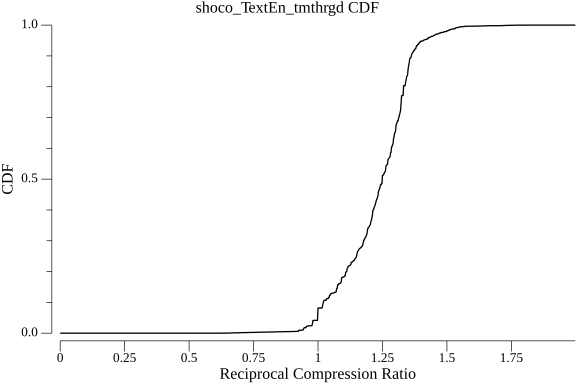
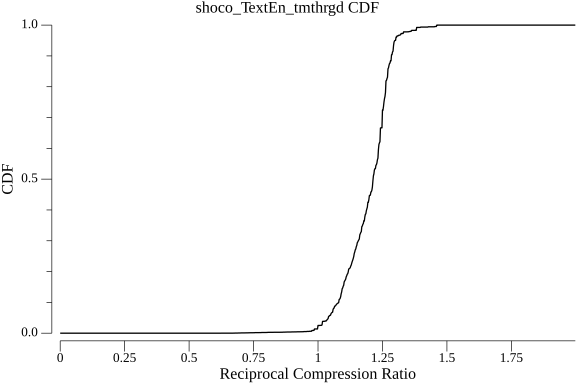
remove proposed from shoco theses are just superior

Changed region(s): [[0.625, 0.125, 0.7188, 0.625], [0.4062, 0.625, 0.625, 0.875], [0.6875, 0.0625, 0.9062, 0.125]]

diff --git a/main.go b/main.go
@@ -187,51 +187,27 @@ func main() {
 		"smaz_cespare":         smaz.Compress,
 		"smaz_cespare_Jorropo": compressorOnlyTextMessageAppContent(smaz.Compress),
 		"shoco_WordsEn_tmthrgd": func(data []byte) []byte {
-			return shoco_models.WordsEn().Compress(data)
-		},
-		"shoco_WordsEn_tmthrgd_Jorropo": compressorOnlyTextMessageAppContent(func(data []byte) []byte {
-			return shoco_models.WordsEn().Compress(data)
-		}),
-		"shoco_WordsEn_proposed_tmthrgd": func(data []byte) []byte {
 			return shoco_models.WordsEn().ProposedCompress(data)
 		},
-		"shoco_WordsEn_proposed_tmthrgd_Jorropo": compressorOnlyTextMessageAppContent(func(data []byte) []byte {
+		"shoco_WordsEn_tmthrgd_Jorropo": compressorOnlyTextMessageAppContent(func(data []byte) []byte {
 			return shoco_models.WordsEn().ProposedCompress(data)
 		}),
 		"shoco_TextEn_tmthrgd": func(data []byte) []byte {
-			return shoco_models.TextEn().Compress(data)
-		},
-		"shoco_TextEn_tmthrgd_Jorropo": compressorOnlyTextMessageAppContent(func(data []byte) []byte {
-			return shoco_models.TextEn().Compress(data)
-		}),
-		"shoco_TextEn_proposed_tmthrgd": func(data []byte) []byte {
 			return shoco_models.TextEn().ProposedCompress(data)
 		},
-		"shoco_TextEn_proposed_tmthrgd_Jorropo": compressorOnlyTextMessageAppContent(func(data []byte) []byte {
+		"shoco_TextEn_tmthrgd_Jorropo": compressorOnlyTextMessageAppContent(func(data []byte) []byte {
 			return shoco_models.TextEn().ProposedCompress(data)
 		}),
 		"shoco_FilePath_tmthrgd": func(data []byte) []byte {
-			return shoco_models.FilePath().Compress(data)
-		},
-		"shoco_FilePath_tmthrgd_Jorropo": compressorOnlyTextMessageAppContent(func(data []byte) []byte {
-			return shoco_models.FilePath().Compress(data)
-		}),
-		"shoco_FilePath_proposed_tmthrgd": func(data []byte) []byte {
 			return shoco_models.FilePath().ProposedCompress(data)
 		},
-		"shoco_FilePath_proposed_tmthrgd_Jorropo": compressorOnlyTextMessageAppContent(func(data []byte) []byte {
+		"shoco_FilePath_tmthrgd_Jorropo": compressorOnlyTextMessageAppContent(func(data []byte) []byte {
 			return shoco_models.FilePath().ProposedCompress(data)
 		}),
 		"shoco_Emails_tmthrgd": func(data []byte) []byte {
-			return shoco_models.Emails().Compress(data)
-		},
-		"shoco_Emails_tmthrgd_Jorropo": compressorOnlyTextMessageAppContent(func(data []byte) []byte {
-			return shoco_models.Emails().Compress(data)
-		}),
-		"shoco_Emails_proposed_tmthrgd": func(data []byte) []byte {
 			return shoco_models.Emails().ProposedCompress(data)
 		},
-		"shoco_Emails_proposed_tmthrgd_Jorropo": compressorOnlyTextMessageAppContent(func(data []byte) []byte {
+		"shoco_Emails_tmthrgd_Jorropo": compressorOnlyTextMessageAppContent(func(data []byte) []byte {
 			return shoco_models.Emails().ProposedCompress(data)
 		}),
 	}
@@ -254,11 +230,11 @@ func main() {
 						count++
 					}
 					if useShoco_WordsEn == 1 {
-						name += "_shoco_WordsEn_proposed"
+						name += "_shoco_WordsEn"
 						count++
 					}
 					if useShoco_TextEn == 1 {
-						name += "_shoco_TextEn_proposed"
+						name += "_shoco_TextEn"
 						count++
 					}
 					if count <= 1 {

diff --git a/README.md b/README.md
@@ -9,36 +9,28 @@ One **bellow** 1 means the compressed data is **smaller** than the uncompressed 
 
 | Compressor | Average Reciprocal Compression Ratio (TEXT_MESSAGE_APP only) | Average Reciprocal Compression Ratio |
 |------------|--------------------------------------------------------------|--------------------------------------|
-| `sscc_Jorropo_unishox2_smaz_shoco_WordsEn_proposed_shoco_TextEn_proposed` | 0.7382 | 0.9982 |
-| `sscc_Jorropo_unishox2_smaz_shoco_TextEn_proposed` | 0.7386 | 0.9982 |
-| `sscc_Jorropo_unishox2_shoco_WordsEn_proposed_shoco_TextEn_proposed` | 0.7426 | 0.9983 |
-| `sscc_Jorropo_unishox2_shoco_TextEn_proposed` | 0.7431 | 0.9983 |
-| `sscc_Jorropo_unishox2_smaz_shoco_WordsEn_proposed` | 0.7460 | 0.9983 |
+| `sscc_Jorropo_unishox2_smaz_shoco_WordsEn_shoco_TextEn` | 0.7382 | 0.9982 |
+| `sscc_Jorropo_unishox2_smaz_shoco_TextEn` | 0.7386 | 0.9982 |
+| `sscc_Jorropo_unishox2_shoco_WordsEn_shoco_TextEn` | 0.7426 | 0.9983 |
+| `sscc_Jorropo_unishox2_shoco_TextEn` | 0.7431 | 0.9983 |
+| `sscc_Jorropo_unishox2_smaz_shoco_WordsEn` | 0.7460 | 0.9983 |
 | `sscc_Jorropo_unishox2_smaz` | 0.7485 | 0.9983 |
-| `sscc_Jorropo_unishox2_shoco_WordsEn_proposed` | 0.7542 | 0.9983 |
+| `sscc_Jorropo_unishox2_shoco_WordsEn` | 0.7542 | 0.9983 |
 | `unishox2_meshtastic` | 0.7578 | 0.9983 |
-| `sscc_Jorropo_smaz_shoco_WordsEn_proposed_shoco_TextEn_proposed` | 0.7604 | 0.9987 |
-| `sscc_Jorropo_smaz_shoco_TextEn_proposed` | 0.7613 | 0.9987 |
-| `sscc_Jorropo_shoco_WordsEn_proposed_shoco_TextEn_proposed` | 0.7709 | 0.9988 |
-| `shoco_TextEn_proposed_tmthrgd_Jorropo` | 0.7722 | 0.9988 |
-| `sscc_Jorropo_smaz_shoco_WordsEn_proposed` | 0.7816 | 0.9989 |
-| `shoco_TextEn_tmthrgd_Jorropo` | 0.7825 | 0.9988 |
+| `sscc_Jorropo_smaz_shoco_WordsEn_shoco_TextEn` | 0.7604 | 0.9987 |
+| `sscc_Jorropo_smaz_shoco_TextEn` | 0.7613 | 0.9987 |
+| `sscc_Jorropo_shoco_WordsEn_shoco_TextEn` | 0.7709 | 0.9988 |
+| `shoco_TextEn_tmthrgd_Jorropo` | 0.7722 | 0.9988 |
+| `sscc_Jorropo_smaz_shoco_WordsEn` | 0.7816 | 0.9989 |
 | `smaz_cespare_Jorropo` | 0.7965 | 0.9990 |
-| `shoco_WordsEn_proposed_tmthrgd_Jorropo` | 0.8388 | 0.9991 |
-| `shoco_TextEn_tmthrgd` | 0.8466 | 1.2200 |
-| `shoco_WordsEn_tmthrgd_Jorropo` | 0.8482 | 0.9992 |
-| `shoco_TextEn_proposed_tmthrgd` | 0.8575 | 1.1715 |
-| `shoco_FilePath_proposed_tmthrgd_Jorropo` | 0.8661 | 0.9993 |
-| `shoco_FilePath_tmthrgd_Jorropo` | 0.8747 | 0.9994 |
-| `shoco_Emails_proposed_tmthrgd_Jorropo` | 0.8755 | 0.9994 |
-| `shoco_Emails_tmthrgd_Jorropo` | 0.8838 | 0.9994 |
+| `shoco_WordsEn_tmthrgd_Jorropo` | 0.8388 | 0.9991 |
+| `shoco_TextEn_tmthrgd` | 0.8575 | 1.1715 |
+| `shoco_FilePath_tmthrgd_Jorropo` | 0.8661 | 0.9993 |
+| `shoco_Emails_tmthrgd_Jorropo` | 0.8755 | 0.9994 |
 | `smaz_cespare` | 0.8865 | 1.2514 |
-| `shoco_WordsEn_tmthrgd` | 0.9133 | 1.2220 |
-| `shoco_WordsEn_proposed_tmthrgd` | 0.9241 | 1.1736 |
-| `shoco_FilePath_tmthrgd` | 0.9407 | 1.2243 |
-| `shoco_Emails_tmthrgd` | 0.9500 | 1.2240 |
-| `shoco_FilePath_proposed_tmthrgd` | 0.9516 | 1.1758 |
-| `shoco_Emails_proposed_tmthrgd` | 0.9608 | 1.1755 |
+| `shoco_WordsEn_tmthrgd` | 0.9241 | 1.1736 |
+| `shoco_FilePath_tmthrgd` | 0.9516 | 1.1758 |
+| `shoco_Emails_tmthrgd` | 0.9608 | 1.1755 |
 | `noop` | 1.0000 | 1.0000 |
 | `lz4_cloudflareHC` | 1.0429 | 1.0325 |
 | `lz4_cloudflare` | 1.0434 | 1.0330 |
@@ -58,35 +50,35 @@ One **bellow** 1 means the compressed data is **smaller** than the uncompressed 
 
 The following graphs show the cumulative distribution function (CDF) of the reciprocal compression ratios for each compressor.
 
-### `sscc_Jorropo_unishox2_smaz_shoco_WordsEn_proposed_shoco_TextEn_proposed`
+### `sscc_Jorropo_unishox2_smaz_shoco_WordsEn_shoco_TextEn`
 
-![sscc_Jorropo_unishox2_smaz_shoco_WordsEn_proposed_shoco_TextEn_proposed CDF](graphs/sscc_Jorropo_unishox2_smaz_shoco_WordsEn_proposed_shoco_TextEn_proposed_cdf.png)
+![sscc_Jorropo_unishox2_smaz_shoco_WordsEn_shoco_TextEn CDF](graphs/sscc_Jorropo_unishox2_smaz_shoco_WordsEn_shoco_TextEn_cdf.png)
 
-![sscc_Jorropo_unishox2_smaz_shoco_WordsEn_proposed_shoco_TextEn_proposed only TEXT_MESSAGE_APP CDF](graphs/sscc_Jorropo_unishox2_smaz_shoco_WordsEn_proposed_shoco_TextEn_proposed_only_TEXT_MESSAGE_APP_cdf.png)
+![sscc_Jorropo_unishox2_smaz_shoco_WordsEn_shoco_TextEn only TEXT_MESSAGE_APP CDF](graphs/sscc_Jorropo_unishox2_smaz_shoco_WordsEn_shoco_TextEn_only_TEXT_MESSAGE_APP_cdf.png)
 
-### `sscc_Jorropo_unishox2_smaz_shoco_TextEn_proposed`
+### `sscc_Jorropo_unishox2_smaz_shoco_TextEn`
 
-![sscc_Jorropo_unishox2_smaz_shoco_TextEn_proposed CDF](graphs/sscc_Jorropo_unishox2_smaz_shoco_TextEn_proposed_cdf.png)
+![sscc_Jorropo_unishox2_smaz_shoco_TextEn CDF](graphs/sscc_Jorropo_unishox2_smaz_shoco_TextEn_cdf.png)
 
-![sscc_Jorropo_unishox2_smaz_shoco_TextEn_proposed only TEXT_MESSAGE_APP CDF](graphs/sscc_Jorropo_unishox2_smaz_shoco_TextEn_proposed_only_TEXT_MESSAGE_APP_cdf.png)
+![sscc_Jorropo_unishox2_smaz_shoco_TextEn only TEXT_MESSAGE_APP CDF](graphs/sscc_Jorropo_unishox2_smaz_shoco_TextEn_only_TEXT_MESSAGE_APP_cdf.png)
 
-### `sscc_Jorropo_unishox2_shoco_WordsEn_proposed_shoco_TextEn_proposed`
+### `sscc_Jorropo_unishox2_shoco_WordsEn_shoco_TextEn`
 
-![sscc_Jorropo_unishox2_shoco_WordsEn_proposed_shoco_TextEn_proposed CDF](graphs/sscc_Jorropo_unishox2_shoco_WordsEn_proposed_shoco_TextEn_proposed_cdf.png)
+![sscc_Jorropo_unishox2_shoco_WordsEn_shoco_TextEn CDF](graphs/sscc_Jorropo_unishox2_shoco_WordsEn_shoco_TextEn_cdf.png)
 
-![sscc_Jorropo_unishox2_shoco_WordsEn_proposed_shoco_TextEn_proposed only TEXT_MESSAGE_APP CDF](graphs/sscc_Jorropo_unishox2_shoco_WordsEn_proposed_shoco_TextEn_proposed_only_TEXT_MESSAGE_APP_cdf.png)
+![sscc_Jorropo_unishox2_shoco_WordsEn_shoco_TextEn only TEXT_MESSAGE_APP CDF](graphs/sscc_Jorropo_unishox2_shoco_WordsEn_shoco_TextEn_only_TEXT_MESSAGE_APP_cdf.png)
 
-### `sscc_Jorropo_unishox2_shoco_TextEn_proposed`
+### `sscc_Jorropo_unishox2_shoco_TextEn`
 
-![sscc_Jorropo_unishox2_shoco_TextEn_proposed CDF](graphs/sscc_Jorropo_unishox2_shoco_TextEn_proposed_cdf.png)
+![sscc_Jorropo_unishox2_shoco_TextEn CDF](graphs/sscc_Jorropo_unishox2_shoco_TextEn_cdf.png)
 
-![sscc_Jorropo_unishox2_shoco_TextEn_proposed only TEXT_MESSAGE_APP CDF](graphs/sscc_Jorropo_unishox2_shoco_TextEn_proposed_only_TEXT_MESSAGE_APP_cdf.png)
+![sscc_Jorropo_unishox2_shoco_TextEn only TEXT_MESSAGE_APP CDF](graphs/sscc_Jorropo_unishox2_shoco_TextEn_only_TEXT_MESSAGE_APP_cdf.png)
 
-### `sscc_Jorropo_unishox2_smaz_shoco_WordsEn_proposed`
+### `sscc_Jorropo_unishox2_smaz_shoco_WordsEn`
 
-![sscc_Jorropo_unishox2_smaz_shoco_WordsEn_proposed CDF](graphs/sscc_Jorropo_unishox2_smaz_shoco_WordsEn_proposed_cdf.png)
+![sscc_Jorropo_unishox2_smaz_shoco_WordsEn CDF](graphs/sscc_Jorropo_unishox2_smaz_shoco_WordsEn_cdf.png)
 
-![sscc_Jorropo_unishox2_smaz_shoco_WordsEn_proposed only TEXT_MESSAGE_APP CDF](graphs/sscc_Jorropo_unishox2_smaz_shoco_WordsEn_proposed_only_TEXT_MESSAGE_APP_cdf.png)
+![sscc_Jorropo_unishox2_smaz_shoco_WordsEn only TEXT_MESSAGE_APP CDF](graphs/sscc_Jorropo_unishox2_smaz_shoco_WordsEn_only_TEXT_MESSAGE_APP_cdf.png)
 
 ### `sscc_Jorropo_unishox2_smaz`
 
@@ -94,11 +86,11 @@ The following graphs show the cumulative distribution function (CDF) of the reci
 
 ![sscc_Jorropo_unishox2_smaz only TEXT_MESSAGE_APP CDF](graphs/sscc_Jorropo_unishox2_smaz_only_TEXT_MESSAGE_APP_cdf.png)
 
-### `sscc_Jorropo_unishox2_shoco_WordsEn_proposed`
+### `sscc_Jorropo_unishox2_shoco_WordsEn`
 
-![sscc_Jorropo_unishox2_shoco_WordsEn_proposed CDF](graphs/sscc_Jorropo_unishox2_shoco_WordsEn_proposed_cdf.png)
+![sscc_Jorropo_unishox2_shoco_WordsEn CDF](graphs/sscc_Jorropo_unishox2_shoco_WordsEn_cdf.png)
 
-![sscc_Jorropo_unishox2_shoco_WordsEn_proposed only TEXT_MESSAGE_APP CDF](graphs/sscc_Jorropo_unishox2_shoco_WordsEn_proposed_only_TEXT_MESSAGE_APP_cdf.png)
+![sscc_Jorropo_unishox2_shoco_WordsEn only TEXT_MESSAGE_APP CDF](graphs/sscc_Jorropo_unishox2_shoco_WordsEn_only_TEXT_MESSAGE_APP_cdf.png)
 
 ### `unishox2_meshtastic`
 
@@ -106,35 +98,23 @@ The following graphs show the cumulative distribution function (CDF) of the reci
 
 ![unishox2_meshtastic only TEXT_MESSAGE_APP CDF](graphs/unishox2_meshtastic_only_TEXT_MESSAGE_APP_cdf.png)
 
-### `sscc_Jorropo_smaz_shoco_WordsEn_proposed_shoco_TextEn_proposed`
+### `sscc_Jorropo_smaz_shoco_WordsEn_shoco_TextEn`
 
-![sscc_Jorropo_smaz_shoco_WordsEn_proposed_shoco_TextEn_proposed CDF](graphs/sscc_Jorropo_smaz_shoco_WordsEn_proposed_shoco_TextEn_proposed_cdf.png)
+![sscc_Jorropo_smaz_shoco_WordsEn_shoco_TextEn CDF](graphs/sscc_Jorropo_smaz_shoco_WordsEn_shoco_TextEn_cdf.png)
 
-![sscc_Jorropo_smaz_shoco_WordsEn_proposed_shoco_TextEn_proposed only TEXT_MESSAGE_APP CDF](graphs/sscc_Jorropo_smaz_shoco_WordsEn_proposed_shoco_TextEn_proposed_only_TEXT_MESSAGE_APP_cdf.png)
+![sscc_Jorropo_smaz_shoco_WordsEn_shoco_TextEn only TEXT_MESSAGE_APP CDF](graphs/sscc_Jorropo_smaz_shoco_WordsEn_shoco_TextEn_only_TEXT_MESSAGE_APP_cdf.png)
 
-### `sscc_Jorropo_smaz_shoco_TextEn_proposed`
+### `sscc_Jorropo_smaz_shoco_TextEn`
 
-![sscc_Jorropo_smaz_shoco_TextEn_proposed CDF](graphs/sscc_Jorropo_smaz_shoco_TextEn_proposed_cdf.png)
+![sscc_Jorropo_smaz_shoco_TextEn CDF](graphs/sscc_Jorropo_smaz_shoco_TextEn_cdf.png)
 
-![sscc_Jorropo_smaz_shoco_TextEn_proposed only TEXT_MESSAGE_APP CDF](graphs/sscc_Jorropo_smaz_shoco_TextEn_proposed_only_TEXT_MESSAGE_APP_cdf.png)
+![sscc_Jorropo_smaz_shoco_TextEn only TEXT_MESSAGE_APP CDF](graphs/sscc_Jorropo_smaz_shoco_TextEn_only_TEXT_MESSAGE_APP_cdf.png)
 
-### `sscc_Jorropo_shoco_WordsEn_proposed_shoco_TextEn_proposed`
+### `sscc_Jorropo_shoco_WordsEn_shoco_TextEn`
 
-![sscc_Jorropo_shoco_WordsEn_proposed_shoco_TextEn_proposed CDF](graphs/sscc_Jorropo_shoco_WordsEn_proposed_shoco_TextEn_proposed_cdf.png)
+![sscc_Jorropo_shoco_WordsEn_shoco_TextEn CDF](graphs/sscc_Jorropo_shoco_WordsEn_shoco_TextEn_cdf.png)
 
-![sscc_Jorropo_shoco_WordsEn_proposed_shoco_TextEn_proposed only TEXT_MESSAGE_APP CDF](graphs/sscc_Jorropo_shoco_WordsEn_proposed_shoco_TextEn_proposed_only_TEXT_MESSAGE_APP_cdf.png)
-
-### `shoco_TextEn_proposed_tmthrgd_Jorropo`
-
-![shoco_TextEn_proposed_tmthrgd_Jorropo CDF](graphs/shoco_TextEn_proposed_tmthrgd_Jorropo_cdf.png)
-
-![shoco_TextEn_proposed_tmthrgd_Jorropo only TEXT_MESSAGE_APP CDF](graphs/shoco_TextEn_proposed_tmthrgd_Jorropo_only_TEXT_MESSAGE_APP_cdf.png)
-
-### `sscc_Jorropo_smaz_shoco_WordsEn_proposed`
-
-![sscc_Jorropo_smaz_shoco_WordsEn_proposed CDF](graphs/sscc_Jorropo_smaz_shoco_WordsEn_proposed_cdf.png)
-
-![sscc_Jorropo_smaz_shoco_WordsEn_proposed only TEXT_MESSAGE_APP CDF](graphs/sscc_Jorropo_smaz_shoco_WordsEn_proposed_only_TEXT_MESSAGE_APP_cdf.png)
+![sscc_Jorropo_shoco_WordsEn_shoco_TextEn only TEXT_MESSAGE_APP CDF](graphs/sscc_Jorropo_shoco_WordsEn_shoco_TextEn_only_TEXT_MESSAGE_APP_cdf.png)
 
 ### `shoco_TextEn_tmthrgd_Jorropo`
 
@@ -142,23 +122,17 @@ The following graphs show the cumulative distribution function (CDF) of the reci
 
 ![shoco_TextEn_tmthrgd_Jorropo only TEXT_MESSAGE_APP CDF](graphs/shoco_TextEn_tmthrgd_Jorropo_only_TEXT_MESSAGE_APP_cdf.png)
 
+### `sscc_Jorropo_smaz_shoco_WordsEn`
+
+![sscc_Jorropo_smaz_shoco_WordsEn CDF](graphs/sscc_Jorropo_smaz_shoco_WordsEn_cdf.png)
+
+![sscc_Jorropo_smaz_shoco_WordsEn only TEXT_MESSAGE_APP CDF](graphs/sscc_Jorropo_smaz_shoco_WordsEn_only_TEXT_MESSAGE_APP_cdf.png)
+
 ### `smaz_cespare_Jorropo`
 
 ![smaz_cespare_Jorropo CDF](graphs/smaz_cespare_Jorropo_cdf.png)
 
 ![smaz_cespare_Jorropo only TEXT_MESSAGE_APP CDF](graphs/smaz_cespare_Jorropo_only_TEXT_MESSAGE_APP_cdf.png)
-
-### `shoco_WordsEn_proposed_tmthrgd_Jorropo`
-
-![shoco_WordsEn_proposed_tmthrgd_Jorropo CDF](graphs/shoco_WordsEn_proposed_tmthrgd_Jorropo_cdf.png)
-
-![shoco_WordsEn_proposed_tmthrgd_Jorropo only TEXT_MESSAGE_APP CDF](graphs/shoco_WordsEn_proposed_tmthrgd_Jorropo_only_TEXT_MESSAGE_APP_cdf.png)
-
-### `shoco_TextEn_tmthrgd`
-
-![shoco_TextEn_tmthrgd CDF](graphs/shoco_TextEn_tmthrgd_cdf.png)
-
-![shoco_TextEn_tmthrgd only TEXT_MESSAGE_APP CDF](graphs/shoco_TextEn_tmthrgd_only_TEXT_MESSAGE_APP_cdf.png)
 
 ### `shoco_WordsEn_tmthrgd_Jorropo`
 
@@ -166,29 +140,17 @@ The following graphs show the cumulative distribution function (CDF) of the reci
 
 ![shoco_WordsEn_tmthrgd_Jorropo only TEXT_MESSAGE_APP CDF](graphs/shoco_WordsEn_tmthrgd_Jorropo_only_TEXT_MESSAGE_APP_cdf.png)
 
-### `shoco_TextEn_proposed_tmthrgd`
+### `shoco_TextEn_tmthrgd`
 
-![shoco_TextEn_proposed_tmthrgd CDF](graphs/shoco_TextEn_proposed_tmthrgd_cdf.png)
+![shoco_TextEn_tmthrgd CDF](graphs/shoco_TextEn_tmthrgd_cdf.png)
 
-![shoco_TextEn_proposed_tmthrgd only TEXT_MESSAGE_APP CDF](graphs/shoco_TextEn_proposed_tmthrgd_only_TEXT_MESSAGE_APP_cdf.png)
-
-### `shoco_FilePath_proposed_tmthrgd_Jorropo`
-
-![shoco_FilePath_proposed_tmthrgd_Jorropo CDF](graphs/shoco_FilePath_proposed_tmthrgd_Jorropo_cdf.png)
-
-![shoco_FilePath_proposed_tmthrgd_Jorropo only TEXT_MESSAGE_APP CDF](graphs/shoco_FilePath_proposed_tmthrgd_Jorropo_only_TEXT_MESSAGE_APP_cdf.png)
+![shoco_TextEn_tmthrgd only TEXT_MESSAGE_APP CDF](graphs/shoco_TextEn_tmthrgd_only_TEXT_MESSAGE_APP_cdf.png)
 
 ### `shoco_FilePath_tmthrgd_Jorropo`
 
 ![shoco_FilePath_tmthrgd_Jorropo CDF](graphs/shoco_FilePath_tmthrgd_Jorropo_cdf.png)
 
 ![shoco_FilePath_tmthrgd_Jorropo only TEXT_MESSAGE_APP CDF](graphs/shoco_FilePath_tmthrgd_Jorropo_only_TEXT_MESSAGE_APP_cdf.png)
-
-### `shoco_Emails_proposed_tmthrgd_Jorropo`
-
-![shoco_Emails_proposed_tmthrgd_Jorropo CDF](graphs/shoco_Emails_proposed_tmthrgd_Jorropo_cdf.png)
-
-![shoco_Emails_proposed_tmthrgd_Jorropo only TEXT_MESSAGE_APP CDF](graphs/shoco_Emails_proposed_tmthrgd_Jorropo_only_TEXT_MESSAGE_APP_cdf.png)
 
 ### `shoco_Emails_tmthrgd_Jorropo`
 
@@ -208,12 +170,6 @@ The following graphs show the cumulative distribution function (CDF) of the reci
 
 ![shoco_WordsEn_tmthrgd only TEXT_MESSAGE_APP CDF](graphs/shoco_WordsEn_tmthrgd_only_TEXT_MESSAGE_APP_cdf.png)
 
-### `shoco_WordsEn_proposed_tmthrgd`
-
-![shoco_WordsEn_proposed_tmthrgd CDF](graphs/shoco_WordsEn_proposed_tmthrgd_cdf.png)
-
-![shoco_WordsEn_proposed_tmthrgd only TEXT_MESSAGE_APP CDF](graphs/shoco_WordsEn_proposed_tmthrgd_only_TEXT_MESSAGE_APP_cdf.png)
-
 ### `shoco_FilePath_tmthrgd`
 
 ![shoco_FilePath_tmthrgd CDF](graphs/shoco_FilePath_tmthrgd_cdf.png)
@@ -225,18 +181,6 @@ The following graphs show the cumulative distribution function (CDF) of the reci
 ![shoco_Emails_tmthrgd CDF](graphs/shoco_Emails_tmthrgd_cdf.png)
 
 ![shoco_Emails_tmthrgd only TEXT_MESSAGE_APP CDF](graphs/shoco_Emails_tmthrgd_only_TEXT_MESSAGE_APP_cdf.png)
-
-### `shoco_FilePath_proposed_tmthrgd`
-
-![shoco_FilePath_proposed_tmthrgd CDF](graphs/shoco_FilePath_proposed_tmthrgd_cdf.png)
-
-![shoco_FilePath_proposed_tmthrgd only TEXT_MESSAGE_APP CDF](graphs/shoco_FilePath_proposed_tmthrgd_only_TEXT_MESSAGE_APP_cdf.png)
-
-### `shoco_Emails_proposed_tmthrgd`
-
-![shoco_Emails_proposed_tmthrgd CDF](graphs/shoco_Emails_proposed_tmthrgd_cdf.png)
-
-![shoco_Emails_proposed_tmthrgd only TEXT_MESSAGE_APP CDF](graphs/shoco_Emails_proposed_tmthrgd_only_TEXT_MESSAGE_APP_cdf.png)
 
 ### `noop`
 
